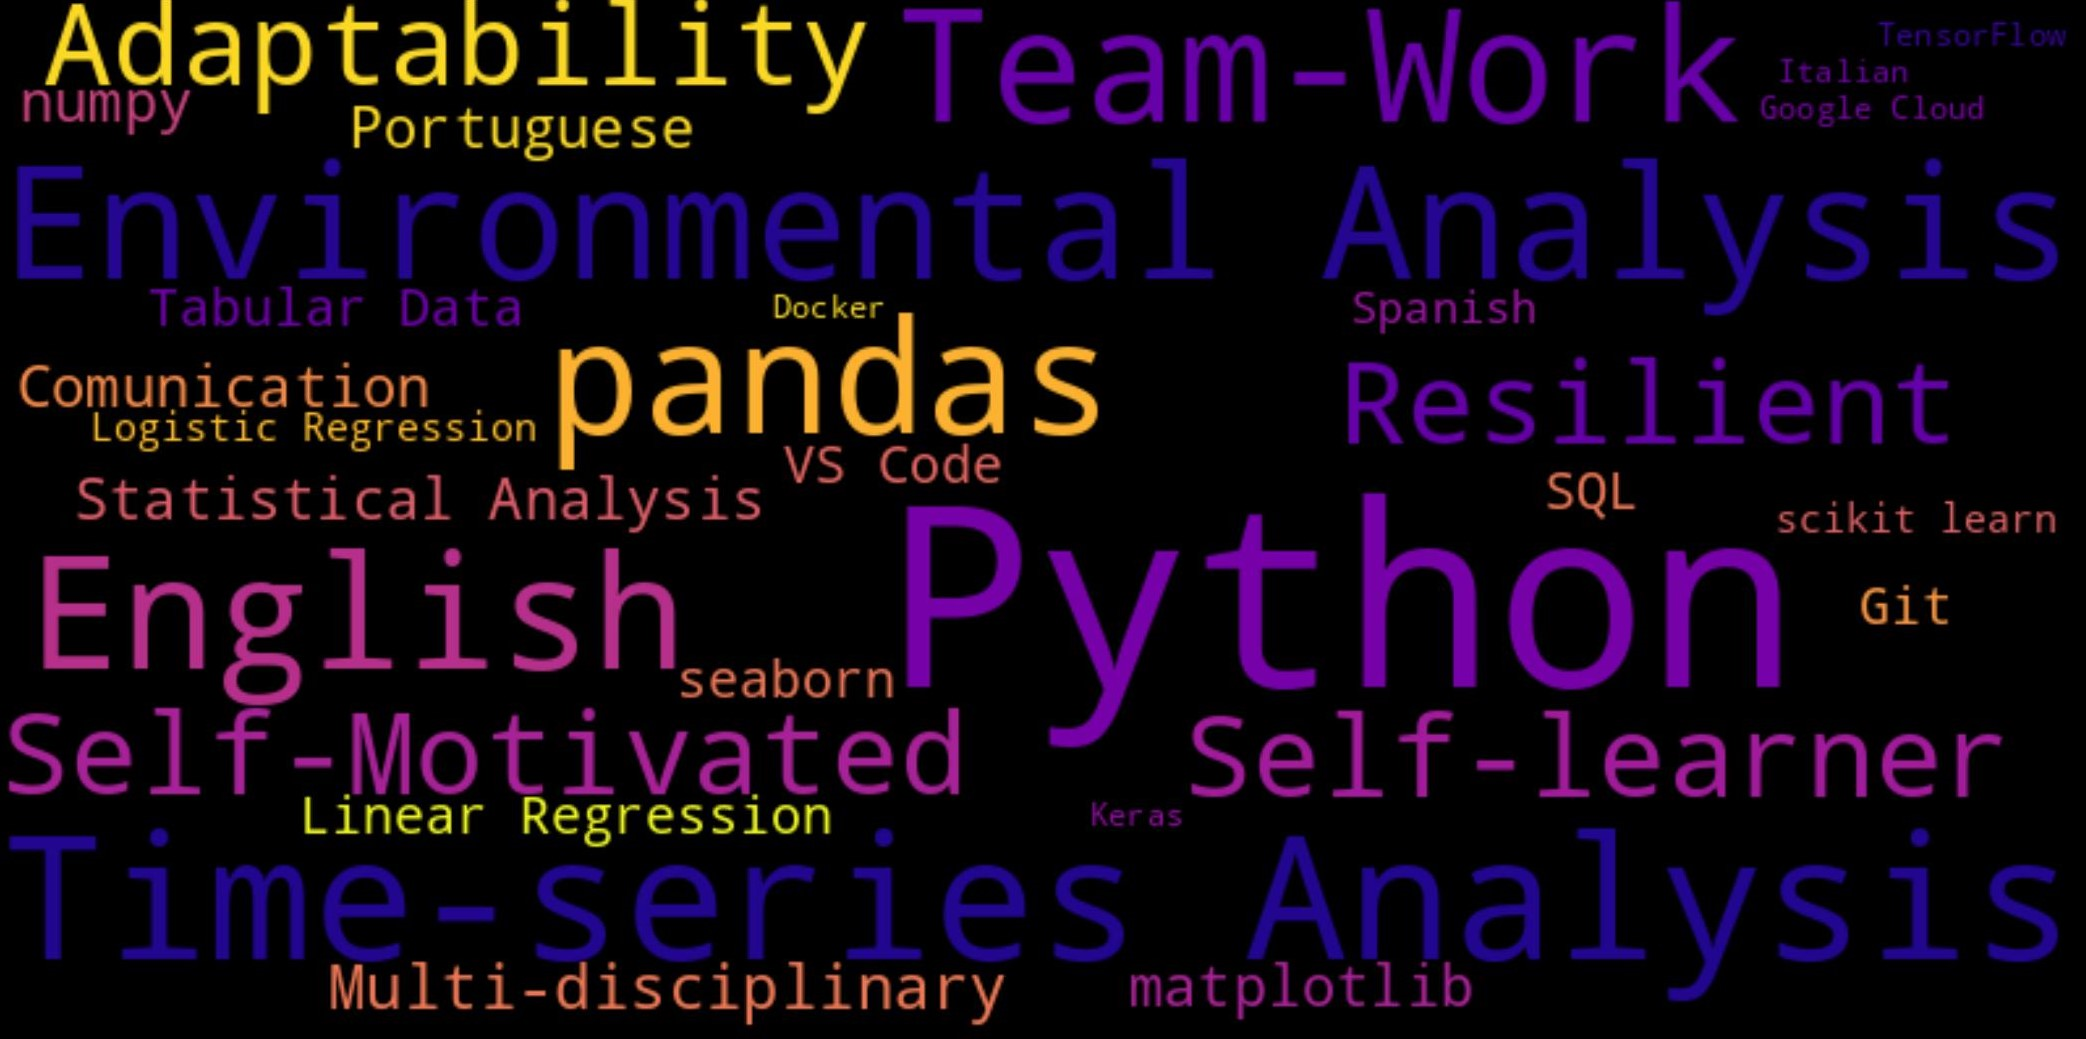
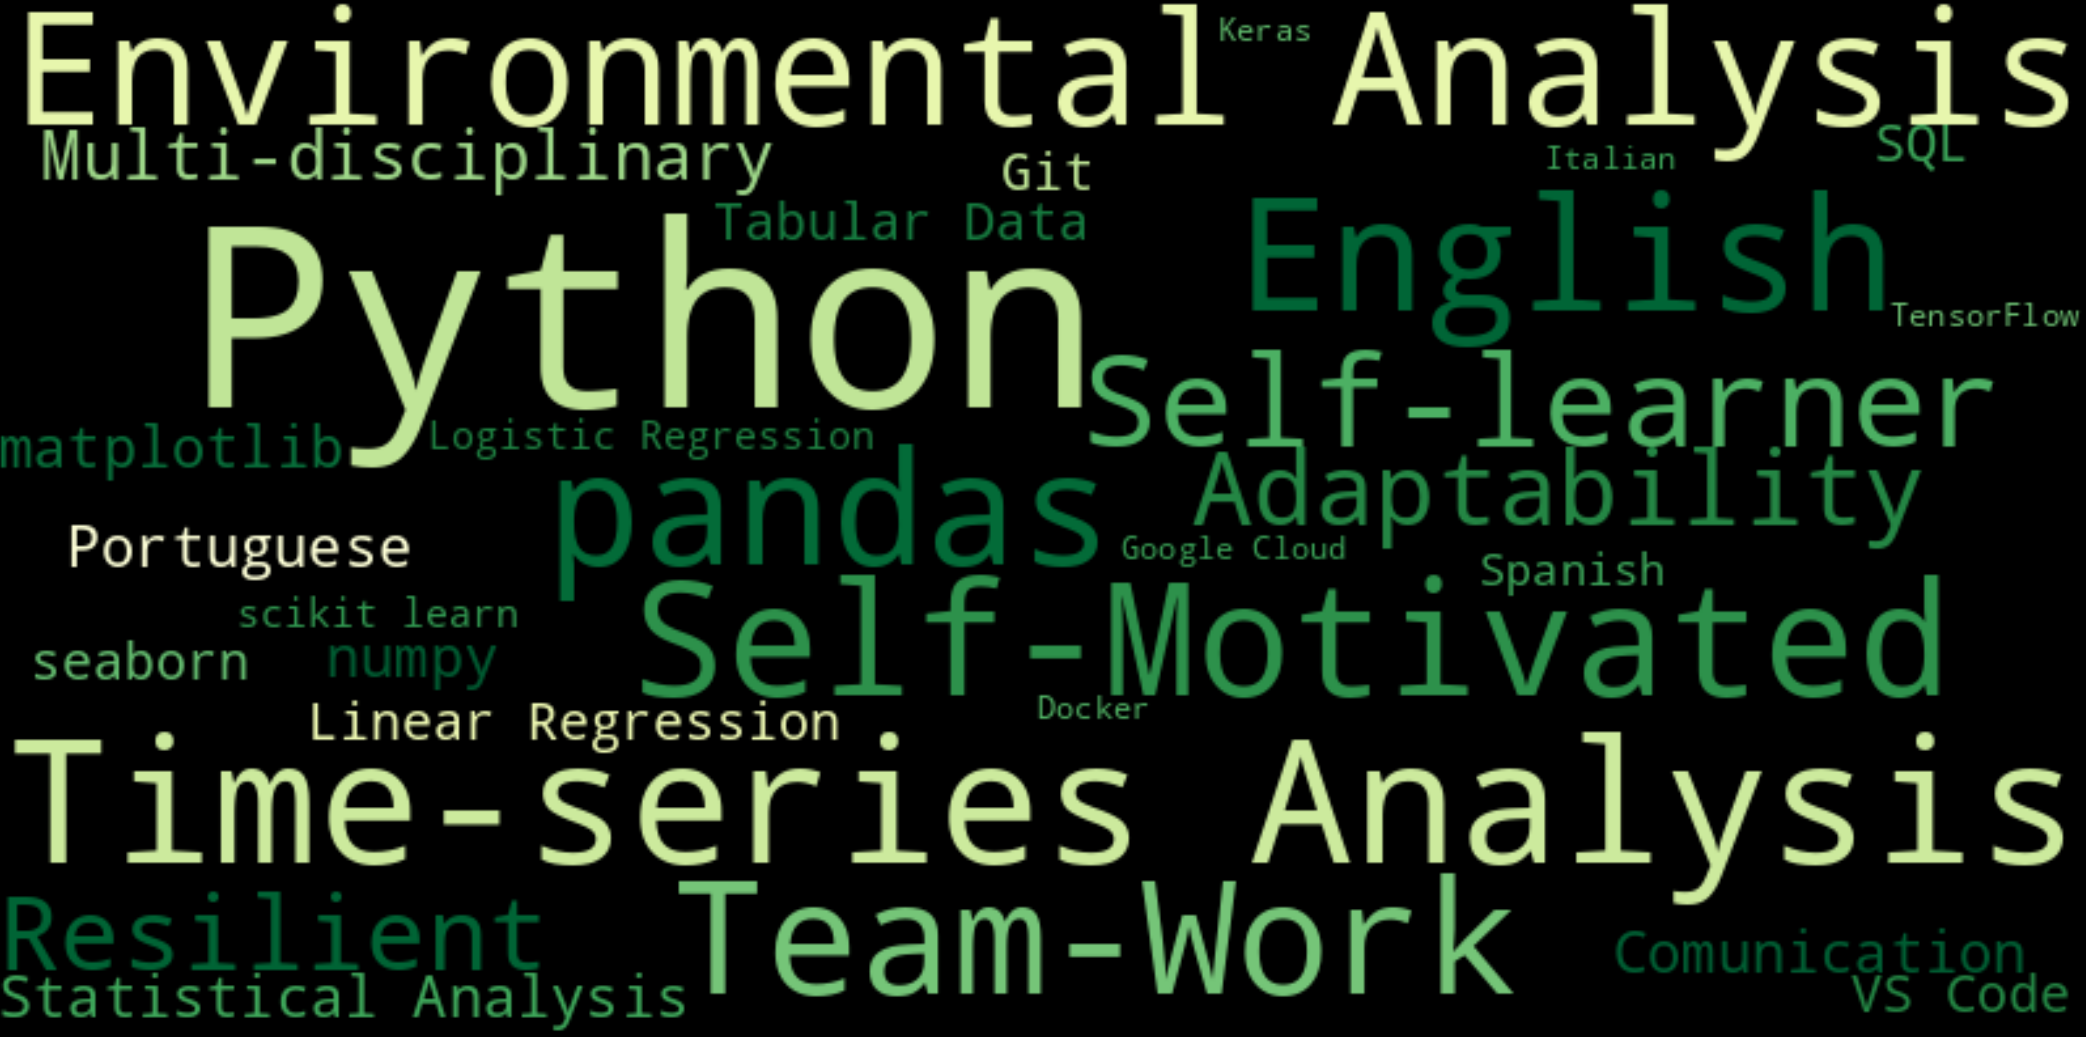
changing colors

diff --git a/test_wordcloud.py b/test_wordcloud.py
@@ -9,6 +9,7 @@ from os import path
 from PIL import Image
 from wordcloud import WordCloud, STOPWORDS
 import matplotlib.pyplot as plt
+from matplotlib.colors import LinearSegmentedColormap
 
 # It worked with the image Irina changed for me because it was pure black and
 # white. You can get the nparray straight from the image. Doesn need to
@@ -89,7 +90,12 @@ for word, experience in my_words_dict.items():
 # string_file = '/home/aline/code/personal_projects/wordcloud/job_position.txt'
 # with open(string_file) as txt_file:
 #     txt_string = txt_file.read()
-colors = ['#606C38', '#283618', '#DDA15E', '#BC6C25']
+# colors = ['#4f772d', '#90a955', '#ecf39e', '#f0ead2', '#dde5b6', '#adc178']
+colors = [(79, 119, 45), (144, 169, 85), 
+          (236, 243, 158), (240, 234, 210),(173, 193, 120)
+]
+cmap = LinearSegmentedColormap.from_list('aline_map', colors)
+#colors = ['#606C38', '#283618', '#DDA15E', '#BC6C25']
 # creating the wordcloud
 # wc = WordCloud(background_color="white",
 #                max_words=700000000,
@@ -115,7 +121,7 @@ wc_git = WordCloud(background_color="black",
                max_words=7000000,
                 contour_width=3,
                 min_font_size=8,
-                colormap='plasma',
+                colormap='YlGn',
                 prefer_horizontal=1,
                 #Importance of relative word frequencies for font-size.
                 # With relative_scaling=0, only word-ranks are considered.
@@ -139,5 +145,5 @@ wc_git.generate_from_frequencies(my_words_dict)
 fig = plt.figure(figsize=(9,5), dpi=300)
 plt.imshow(wc_git, interpolation="bilinear")
 plt.axis("off")
-plt.show(block=False)
-plt.savefig('github_wordcloud.jpg', dpi = 300, bbox_inches='tight')
+# plt.show(block=False)
+plt.savefig('github_wordcloud.png', dpi = 300, bbox_inches='tight')
